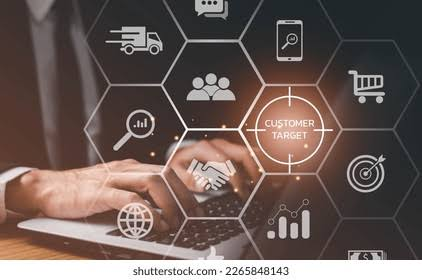
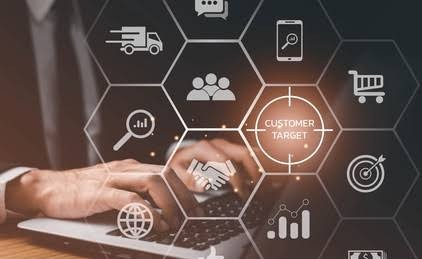
Reading list: vertical bookstore-style cards; replace sector image
- resources.html: books and reports now use vertical portrait card layout
  (cover image full-width on top, info below) with tighter 5-across grid;
  res-card--vert + res-card__cover + res-grid--books CSS added
- assets/sector-aware.jpg: replaced with user's manually cropped version

diff --git a/course-poc/resources.html b/course-poc/resources.html
@@ -68,9 +68,16 @@
     .res-card__link { font-size: 0.82em; font-weight: 600; color: var(--green-mid); text-decoration: none; }
     .res-card__link:hover { text-decoration: underline; }
 
+    /* ── Vertical book/report card ───────────────── */
+    .res-grid--books { grid-template-columns: repeat(auto-fill, minmax(180px, 1fr)); gap: 16px; }
+    .res-card--vert { flex-direction: column; padding: 0; gap: 0; overflow: hidden; align-items: stretch; }
+    .res-card__cover { width: 100%; height: 210px; object-fit: cover; object-position: top center; display: block; background: var(--green-pale); flex-shrink: 0; border-radius: 0; }
+    .res-card--vert .res-card__body { padding: 14px 16px 18px; }
+
     @media (max-width: 640px) {
       .res-hero h1 { font-size: 1.6em; }
       .res-grid { grid-template-columns: 1fr; }
+      .res-grid--books { grid-template-columns: repeat(2, 1fr); }
       .res-card__img { width: 60px; height: 60px; }
       .res-card__img--book { height: 84px; }
     }
@@ -291,11 +298,11 @@
     <p class="res-section__intro">Books and reports for learners who want to go beyond the course. Each one earns its place.</p>
 
     <div class="res-sub-label">Books</div>
-    <div class="res-grid">
+    <div class="res-grid res-grid--books">
 
-      <div class="res-card">
-        <!-- Drop image at: assets/resources/book-ai-snake-oil.jpg (recommended 120×168px portrait) -->
-        <img src="assets/resources/book-ai-snake-oil.jpg" alt="AI Snake Oil cover" class="res-card__img res-card__img--book" loading="lazy" />
+      <div class="res-card res-card--vert">
+        <!-- Drop image at: assets/resources/book-ai-snake-oil.jpg (recommended 200×280px portrait) -->
+        <img src="assets/resources/book-ai-snake-oil.jpg" alt="AI Snake Oil cover" class="res-card__cover" loading="lazy" />
         <div class="res-card__body">
           <div class="res-card__type">Book &middot; 2024</div>
           <div class="res-card__title">AI Snake Oil</div>
@@ -305,21 +312,21 @@
         </div>
       </div>
 
-      <div class="res-card">
-        <!-- Drop image at: assets/resources/book-weapons-math.jpg (recommended 120×168px portrait) -->
-        <img src="assets/resources/book-weapons-math.jpg" alt="Weapons of Math Destruction cover" class="res-card__img res-card__img--book" loading="lazy" />
+      <div class="res-card res-card--vert">
+        <!-- Drop image at: assets/resources/book-weapons-math.jpg (recommended 200×280px portrait) -->
+        <img src="assets/resources/book-weapons-math.jpg" alt="Weapons of Math Destruction cover" class="res-card__cover" loading="lazy" />
         <div class="res-card__body">
           <div class="res-card__type">Book &middot; 2016</div>
           <div class="res-card__title">Weapons of Math Destruction</div>
           <div class="res-card__author">Cathy O'Neil</div>
-          <div class="res-card__desc">How algorithms harm the poor, reinforce discrimination, and threaten democracy. The classic case for why AI judgment matters — and why "the data doesn't lie" is never quite right.</div>
+          <div class="res-card__desc">How algorithms harm the poor, reinforce discrimination, and threaten democracy. The classic case for why AI judgment matters.</div>
           <a href="https://mathbabe.org/book/" target="_blank" rel="noopener" class="res-card__link">&rarr; Find on Takealot or your library</a>
         </div>
       </div>
 
-      <div class="res-card">
-        <!-- Drop image at: assets/resources/book-race-after-tech.jpg (recommended 120×168px portrait) -->
-        <img src="assets/resources/book-race-after-tech.jpg" alt="Race After Technology cover" class="res-card__img res-card__img--book" loading="lazy" />
+      <div class="res-card res-card--vert">
+        <!-- Drop image at: assets/resources/book-race-after-tech.jpg (recommended 200×280px portrait) -->
+        <img src="assets/resources/book-race-after-tech.jpg" alt="Race After Technology cover" class="res-card__cover" loading="lazy" />
         <div class="res-card__body">
           <div class="res-card__type">Book &middot; 2019</div>
           <div class="res-card__title">Race After Technology</div>
@@ -329,26 +336,26 @@
         </div>
       </div>
 
-      <div class="res-card">
-        <!-- Drop image at: assets/resources/book-power-prediction.jpg (recommended 120×168px portrait) -->
-        <img src="assets/resources/book-power-prediction.jpg" alt="Power and Prediction cover" class="res-card__img res-card__img--book" loading="lazy" />
+      <div class="res-card res-card--vert">
+        <!-- Drop image at: assets/resources/book-power-prediction.jpg (recommended 200×280px portrait) -->
+        <img src="assets/resources/book-power-prediction.jpg" alt="Power and Prediction cover" class="res-card__cover" loading="lazy" />
         <div class="res-card__body">
           <div class="res-card__type">Book &middot; 2022</div>
           <div class="res-card__title">Power and Prediction</div>
           <div class="res-card__author">Agrawal, Gans &amp; Goldfarb</div>
-          <div class="res-card__desc">The business economics of AI: why AI is fundamentally about shifting who makes predictions, what that does to power, and how professionals need to adapt. Practical, not theoretical.</div>
+          <div class="res-card__desc">The business economics of AI: why AI is about shifting who makes predictions, what that does to power, and how professionals need to adapt.</div>
           <a href="https://www.predictionmachines.ai" target="_blank" rel="noopener" class="res-card__link">&rarr; Find on Takealot or your library</a>
         </div>
       </div>
 
-      <div class="res-card">
-        <!-- Drop image at: assets/resources/book-alignment-problem.jpg (recommended 120×168px portrait) -->
-        <img src="assets/resources/book-alignment-problem.jpg" alt="The Alignment Problem cover" class="res-card__img res-card__img--book" loading="lazy" />
+      <div class="res-card res-card--vert">
+        <!-- Drop image at: assets/resources/book-alignment-problem.jpg (recommended 200×280px portrait) -->
+        <img src="assets/resources/book-alignment-problem.jpg" alt="The Alignment Problem cover" class="res-card__cover" loading="lazy" />
         <div class="res-card__body">
           <div class="res-card__type">Book &middot; 2020</div>
           <div class="res-card__title">The Alignment Problem</div>
           <div class="res-card__author">Brian Christian</div>
-          <div class="res-card__desc">What it actually takes to build AI that does what we want — and the many ways it goes wrong. Accessible deep dive into how AI systems fail, for the curious non-engineer.</div>
+          <div class="res-card__desc">What it takes to build AI that does what we want — and the many ways it goes wrong. Accessible deep dive into AI failure modes, for the curious non-engineer.</div>
           <a href="https://brianchristian.org/the-alignment-problem/" target="_blank" rel="noopener" class="res-card__link">&rarr; brianchristian.org</a>
         </div>
       </div>
@@ -356,23 +363,23 @@
     </div><!-- /books grid -->
 
     <div class="res-sub-label">Reports &amp; Policy Documents</div>
-    <div class="res-grid">
+    <div class="res-grid res-grid--books">
 
-      <div class="res-card">
-        <!-- Drop image at: assets/resources/report-fsca-ai.jpg (recommended 120×168px portrait) -->
-        <img src="assets/resources/report-fsca-ai.jpg" alt="FSCA AI in Financial Sector report" class="res-card__img res-card__img--book" loading="lazy" />
+      <div class="res-card res-card--vert">
+        <!-- Drop image at: assets/resources/report-fsca-ai.jpg (recommended 200×280px portrait) -->
+        <img src="assets/resources/report-fsca-ai.jpg" alt="FSCA AI in Financial Sector report" class="res-card__cover" loading="lazy" />
         <div class="res-card__body">
           <div class="res-card__type">Report &middot; November 2025</div>
           <div class="res-card__title">AI in the South African Financial Sector</div>
           <div class="res-card__author">FSCA &amp; Prudential Authority</div>
-          <div class="res-card__desc">The first comprehensive look at how SA's major financial institutions are deploying AI and where the gaps are. If you're in finance, this is what your regulator already knows about AI in your sector.</div>
+          <div class="res-card__desc">The first comprehensive look at how SA's major financial institutions are deploying AI and where the gaps are. What your regulator already knows about AI in your sector.</div>
           <a href="https://www.masthead.co.za/newsletter/artificial-intelligence-in-the-south-african-financial-sector-what-fsps-need-to-know-in-2026/" target="_blank" rel="noopener" class="res-card__link">&rarr; Read the summary</a>
         </div>
       </div>
 
-      <div class="res-card">
-        <!-- Drop image at: assets/resources/report-icasa-ict.jpg (recommended 120×168px portrait) -->
-        <img src="assets/resources/report-icasa-ict.jpg" alt="ICASA State of ICT Sector report" class="res-card__img res-card__img--book" loading="lazy" />
+      <div class="res-card res-card--vert">
+        <!-- Drop image at: assets/resources/report-icasa-ict.jpg (recommended 200×280px portrait) -->
+        <img src="assets/resources/report-icasa-ict.jpg" alt="ICASA State of ICT Sector report" class="res-card__cover" loading="lazy" />
         <div class="res-card__body">
           <div class="res-card__type">Report &middot; 2025</div>
           <div class="res-card__title">State of the ICT Sector in South Africa</div>
@@ -382,38 +389,38 @@
         </div>
       </div>
 
-      <div class="res-card">
-        <!-- Drop image at: assets/resources/report-au-ai-strategy.jpg (recommended 120×168px portrait) -->
-        <img src="assets/resources/report-au-ai-strategy.jpg" alt="AU Continental AI Strategy document" class="res-card__img res-card__img--book" loading="lazy" />
+      <div class="res-card res-card--vert">
+        <!-- Drop image at: assets/resources/report-au-ai-strategy.jpg (recommended 200×280px portrait) -->
+        <img src="assets/resources/report-au-ai-strategy.jpg" alt="AU Continental AI Strategy document" class="res-card__cover" loading="lazy" />
         <div class="res-card__body">
           <div class="res-card__type">Policy Document</div>
           <div class="res-card__title">Continental AI Strategy for Africa</div>
           <div class="res-card__author">African Union</div>
-          <div class="res-card__desc">The continental framework for AI development in Africa. Shows how SA's AI policy fits into the broader African picture — and where Africa's governance priorities differ from the US or EU.</div>
+          <div class="res-card__desc">The continental framework for AI development in Africa. Shows how SA's policy fits into the broader African picture and where Africa's governance priorities differ from the US or EU.</div>
           <a href="https://au.int/en/documents/20240213/ai-continental-strategy-africa" target="_blank" rel="noopener" class="res-card__link">&rarr; African Union &rarr;</a>
         </div>
       </div>
 
-      <div class="res-card">
-        <!-- Drop image at: assets/resources/report-unesco-ai-ethics.jpg (recommended 120×168px portrait) -->
-        <img src="assets/resources/report-unesco-ai-ethics.jpg" alt="UNESCO AI Ethics Recommendation" class="res-card__img res-card__img--book" loading="lazy" />
+      <div class="res-card res-card--vert">
+        <!-- Drop image at: assets/resources/report-unesco-ai-ethics.jpg (recommended 200×280px portrait) -->
+        <img src="assets/resources/report-unesco-ai-ethics.jpg" alt="UNESCO AI Ethics Recommendation" class="res-card__cover" loading="lazy" />
         <div class="res-card__body">
           <div class="res-card__type">Policy Document &middot; 2021</div>
           <div class="res-card__title">Recommendation on the Ethics of AI</div>
           <div class="res-card__author">UNESCO</div>
-          <div class="res-card__desc">The global consensus document on responsible AI — adopted by 193 countries. Shows what international AI governance actually requires, in plain terms. The foundation for understanding what "ethical AI" means in practice.</div>
+          <div class="res-card__desc">The global consensus document on responsible AI — adopted by 193 countries. The foundation for understanding what "ethical AI" actually requires in practice.</div>
           <a href="https://www.unesco.org/en/artificial-intelligence/recommendation-ethics" target="_blank" rel="noopener" class="res-card__link">&rarr; UNESCO.org &rarr;</a>
         </div>
       </div>
 
-      <div class="res-card">
-        <!-- Drop image at: assets/resources/report-cipesa-africa.jpg (recommended 120×168px portrait) -->
-        <img src="assets/resources/report-cipesa-africa.jpg" alt="CIPESA State of Internet Freedom report" class="res-card__img res-card__img--book" loading="lazy" />
+      <div class="res-card res-card--vert">
+        <!-- Drop image at: assets/resources/report-cipesa-africa.jpg (recommended 200×280px portrait) -->
+        <img src="assets/resources/report-cipesa-africa.jpg" alt="CIPESA State of Internet Freedom report" class="res-card__cover" loading="lazy" />
         <div class="res-card__body">
           <div class="res-card__type">Report &middot; 2025</div>
           <div class="res-card__title">State of Internet Freedom in Africa</div>
           <div class="res-card__author">CIPESA</div>
-          <div class="res-card__desc">Covers AI-enabled surveillance, deepfake disinformation, and digital rights across 25 African countries. The most comprehensive annual review of how AI is intersecting with freedom, democracy, and rights on the continent.</div>
+          <div class="res-card__desc">Covers AI-enabled surveillance, deepfake disinformation, and digital rights across 25 African countries. The most comprehensive annual review of AI vs. freedom on the continent.</div>
           <a href="https://cipesa.org/2025/09/state-of-internet-freedom-in-africa-report/" target="_blank" rel="noopener" class="res-card__link">&rarr; cipesa.org &rarr;</a>
         </div>
       </div>